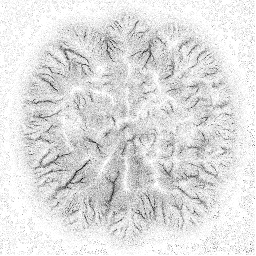
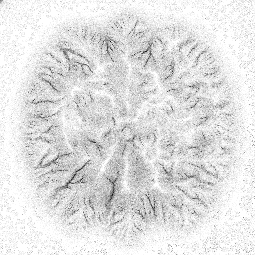
-des fonctions pour les callbacks - moins de duplication de code
-thermal erosion sur le simple terrain (vegetationTerrain) adapté

diff --git a/Outerrain/Source/app.cpp b/Outerrain/Source/app.cpp
@@ -171,17 +171,14 @@ int App::Render()
 	ImGui::SliderFloat("Amplitude 1", &streamPowerErosionAmplitude, 0.1f, 10.0f);
 	if (ImGui::Button("Compute SP Erosion") && vegTerrain.SizeX() > 0 && vegTerrain.SizeY() > 0)
 	{
-		vegTerrain.StreamPowerErosion(streamPowerErosionIteration, streamPowerErosionAmplitude);
-		scene.GetChildAt(0)->GetComponent<Mesh>()->SetVertices(vegTerrain.GetAllVertices());
-		CalculateAllMaps();
+		StreamPowerErosionCallback(streamPowerErosionIteration, streamPowerErosionAmplitude);
 	}
 	ImGui::Text("\n");
 	ImGui::Text("Thermal Erosion");
 	ImGui::SliderInt("Iterations 2", &thermalErosionIteration, 1, 100);
-	if (ImGui::Button("Compute Thermal Erosion") && layerTerrain2D.SizeX() > 0 && layerTerrain2D.SizeY() > 0)
+	if (ImGui::Button("Compute Thermal Erosion") )
 	{
-		layerTerrain2D.ThermalErosion(thermalErosionIteration);
-		scene.GetChildAt(0)->GetComponent<Mesh>()->SetVertices(layerTerrain2D.GetAllVertices());
+		ThermalErosionCallback(thermalErosionIteration);
 	}
 	ImGui::End();
 
@@ -221,26 +218,20 @@ int App::Update(const float time, const float deltaTime)
 		orbiter.Translation(-10.0f / windowWidth, 0.0f);
 
 	// Thermal Erosion
-	if (key_state(SDLK_t) && layerTerrain2D.SizeX() > 0 && layerTerrain2D.SizeY() > 0)
+	if (key_state(SDLK_t))
 	{
-		layerTerrain2D.ThermalErosion(thermalErosionIteration);
-		scene.GetChildAt(0)->GetComponent<Mesh>()->SetVertices(layerTerrain2D.GetAllVertices());
+		ThermalErosionCallback(thermalErosionIteration);
 	}
+	
 	// Stream Power erosion
 	if (key_state(SDLK_p) && vegTerrain.SizeX() > 0 && vegTerrain.SizeY() > 0)
 	{
-		vegTerrain.StreamPowerErosion(streamPowerErosionIteration, 2.0f);
-		scene.GetChildAt(0)->GetComponent<Mesh>()->SetVertices(vegTerrain.GetAllVertices());
-		CalculateAllMaps();
+		StreamPowerErosionCallback(streamPowerErosionIteration, streamPowerErosionAmplitude);
 	}
 	// Vegetation spawn
 	if (key_state(SDLK_v) && vegTerrain.SizeX() > 0 && vegTerrain.SizeY() > 0)
 	{
-		vegTerrain.ComputeVegetationDensities();
-		std::vector<GameObject*> trees = vegTerrain.GetTreeObjects();
-		for (int i = 0; i < trees.size(); i++)
-			scene.AddChild(trees[i]);
-		CalculateAllMaps();
+		SpawnVegetationCallback();
 	}
 
 	// Update game objects
@@ -309,7 +300,7 @@ void App::InitSceneNoiseTerrain()
 
 void App::InitSceneVegetationTerrain()
 {
-	vegTerrain = VegetationTerrain(2048, 2048, Vector2(-256, -256), Vector2(256, 256));
+	vegTerrain = VegetationTerrain(256, 256, Vector2(-256, -256), Vector2(256, 256));
 	vegTerrain.InitFromFile("Data/island.png", 0, 100);
 
 	Mesh* mesh = vegTerrain.GetMesh();
@@ -355,7 +346,7 @@ void App::CalculateAllMaps()
 	field.WriteImageGrayscale("Data/slope.png");
 	minMaxSlope = Vector2(field.MinValue(), field.MaxValue());
 
-	/*field = vegTerrain.WetnessField();
+	field = vegTerrain.WetnessField();
 	field.WriteImageGrayscale("Data/wetness.png");
 	minMaxWetness = Vector2(field.MinValue(), field.MaxValue());
 
@@ -372,7 +363,7 @@ void App::CalculateAllMaps()
 	minMaxAccessibility = Vector2(field.MinValue(), field.MaxValue());
 
 	field = vegTerrain.VegetationDensityField();
-	minMaxVegetationDensity = Vector2(field.MinValue(), field.MaxValue());*/
+	minMaxVegetationDensity = Vector2(field.MinValue(), field.MaxValue());
 
 	slopeTexture = ReadTexture(0, "Data/slope.png", GL_RGB);
 	draignageTexture = ReadTexture(0, "Data/drainageSqrt.png", GL_RGB);

diff --git a/Outerrain/Source/terrain.cpp b/Outerrain/Source/terrain.cpp
@@ -117,10 +117,10 @@ float Terrain2D::NormalizedHeight(const Vector2& p) const
 }
 
 /* Erosion */
-void Terrain2D::StreamPowerErosion(int iteration, float maxAmplitude)
+void Terrain2D::StreamPowerErosion(int stepCount, float maxAmplitude)
 {
 	ScalarField2D streamPower = StreamPowerField();
-	for (int k = 0; k < iteration; k++)
+	for (int k = 0; k < stepCount; k++)
 	{
 		for (int i = 0; i < ny; i++)
 		{
@@ -132,6 +132,86 @@ void Terrain2D::StreamPowerErosion(int iteration, float maxAmplitude)
 		}
 	}
 }
+
+void Terrain2D::ThermalErosion(int stepCount)
+{
+	// Constants
+	float epsilonDisplacement = 0.05f;
+	float tanThresholdAngle = 0.6f;	 // Threshold Angle for stability (30° +- 5)
+
+	float cellDistX = (topRight[0] - bottomLeft[0]) / (nx - 1);
+	for (int a = 0; a < stepCount; a++)
+	{
+		// Create queue of instable points
+		std::queue<Point> instables;
+		for (int i = 0; i < heightField.SizeY(); i++)
+		{
+			for (int j = 0; j < heightField.SizeX(); j++)
+			{
+				float maxZDiff = 0.0f;
+				for (int k = -1; k <= 1; k++)
+				{
+					for (int l = -1; l <= 1; l++)
+					{
+						if ((k == 0 && l == 0) || heightField.InsideVertex(i + k, j + l) == false)
+							continue;
+						float z = heightField.Get(i, j) - heightField.Get(i + k, j + l);
+						maxZDiff = std::max(maxZDiff, z);
+					}
+				}
+
+				if (maxZDiff / cellDistX > tanThresholdAngle)
+				{
+					float matter = epsilonDisplacement;
+					Point p = Point(i, j, matter);
+					instables.push(p);
+				}
+			}
+		}
+
+		// Move matters between points and add new points to stabilize
+		while (instables.empty() == false)
+		{
+			Point p = instables.front();
+			instables.pop();
+
+			int i = p.x, j = p.y;
+			float matter = p.value;
+			Point neighbour = Point(0, 0, 0.0f);
+			float maxZDiff = 0.0f;
+			for (int k = -1; k <= 1; k++)
+			{
+				for (int l = -1; l <= 1; l++)
+				{
+					if ((k == 0 && l == 0) || heightField.InsideVertex(i + k, j + l) == false)
+						continue;
+					float z = heightField.Get(i, j) - heightField.Get(i + k, j + l);
+					if (z > maxZDiff)
+					{
+						maxZDiff = z;
+						neighbour.x = i + k;
+						neighbour.y = j + l;
+					}
+				}
+			}
+
+			// Remove from base point
+			heightField.Set(i, j, heightField.Get(i, j) - matter);
+
+			// Add to lowest neighbour
+			heightField.Set(neighbour.x, neighbour.y, heightField.Get(neighbour.x, neighbour.y) + matter);
+
+			// Add neighbour to stabilize if angle > tanThresholdAngle
+			if (maxZDiff / cellDistX > tanThresholdAngle)
+			{
+				float m = epsilonDisplacement;
+				Point p = Point(neighbour.x, neighbour.y, matter);
+				instables.push(p);
+			}
+		}
+	}
+}
+
 
 /* Useful Fields */
 ScalarField2D Terrain2D::SlopeField() const

diff --git a/Outerrain/Source/app-callbacks.cpp b/Outerrain/Source/app-callbacks.cpp
@@ -1,0 +1,34 @@
+#include "app.h"
+
+void App::ThermalErosionCallback(int stepCount)
+{
+	// On layer terrain
+	if (layerTerrain2D.SizeX() > 0 && layerTerrain2D.SizeY() > 0)
+	{
+		layerTerrain2D.ThermalErosion(stepCount);
+		scene.GetChildAt(0)->GetComponent<Mesh>()->SetVertices(layerTerrain2D.GetAllVertices());
+	}
+	// On simple terrain
+	if (vegTerrain.SizeX() > 0 && vegTerrain.SizeY() > 0)
+	{
+		vegTerrain.ThermalErosion(stepCount);
+		scene.GetChildAt(0)->GetComponent<Mesh>()->SetVertices(vegTerrain.GetAllVertices());
+		CalculateAllMaps();
+	}
+}
+
+void App::StreamPowerErosionCallback(int stepCount, float amplitude)
+{
+	vegTerrain.StreamPowerErosion(stepCount, amplitude);
+	scene.GetChildAt(0)->GetComponent<Mesh>()->SetVertices(vegTerrain.GetAllVertices());
+	CalculateAllMaps();
+}
+
+void App::SpawnVegetationCallback()
+{
+	vegTerrain.ComputeVegetationDensities();
+	std::vector<GameObject*> trees = vegTerrain.GetTreeObjects();
+	for (int i = 0; i < trees.size(); i++)
+		scene.AddChild(trees[i]);
+	CalculateAllMaps();
+}

diff --git a/Outerrain/Include/app.h b/Outerrain/Include/app.h
@@ -33,6 +33,12 @@ protected:
 
 	float windowWidth, windowHeight;
 
+	// Callbacks
+	void ThermalErosionCallback(int stepCount);
+	void StreamPowerErosionCallback(int stepCount, float amplitude);
+	void SpawnVegetationCallback();
+	
+
 public:
 	App(const int&, const int&, const int&, const int&);
 

diff --git a/Outerrain/Include/terrain.h b/Outerrain/Include/terrain.h
@@ -32,7 +32,8 @@ public:
 	std::vector<Vector3> GetAllVertices() const;
 
 	/* Erosion */
-	void StreamPowerErosion(int iteration, float);
+	void StreamPowerErosion(int stepCount, float);
+	void ThermalErosion(int stepCount);
 
 	/* Useful fields */
 	void ComputeNormalField();
